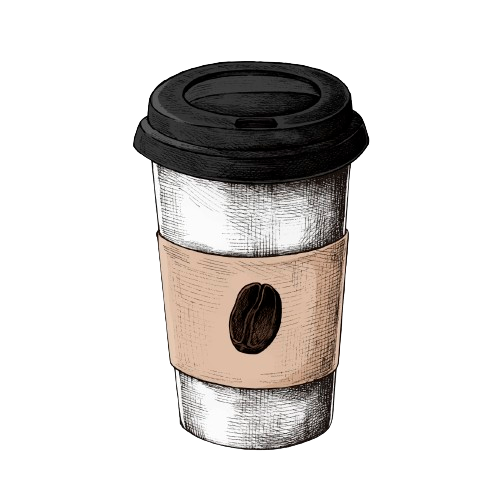
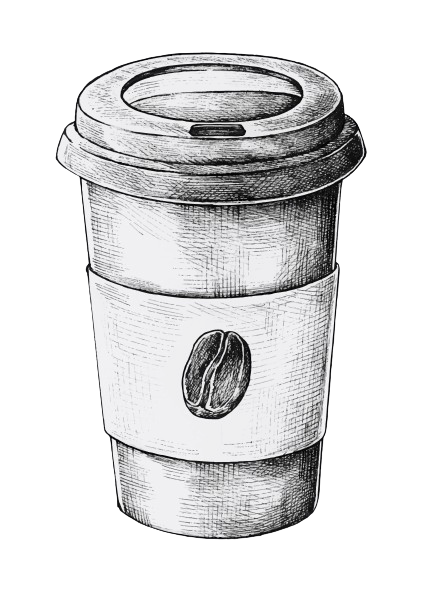
home redesign

diff --git a/src/parts/Hero.jsx b/src/parts/Hero.jsx
@@ -2,42 +2,51 @@ import { Outlet, Link } from "react-router-dom";
 import "../assets/style/style.css";
 
 export const Hero = () => {
-  const hero_img = require("../assets/images/on-pages/cappuccino.jpg");
+  const hero_img = require("../assets/images/on-pages/coffee-sketch.png");
+  const b = require("../assets/images/on-pages/2.png");
+  const c = require("../assets/images/on-pages/3.png");
+  const a = require("../assets/images/on-pages/1.png");
 
   return (
-    <section
-      className="flex items-center bg-[#F3f3f3] text-[#36322D]"
-      id="home"
-    >
+    <section className="flex items-center bg-[#F3f3f3]" id="home">
       <div className="container">
-        <div className="flex items-center justify-center gap-16 lg:flex-col lg:gap-8">
+        <div className="flex items-center justify-center lg:flex-col lg:gap-8 sm:gap-0">
           <div className="max-ch">
             <header>
               <h1 className="mb-4 text-4xl font-bold">ENJOY THE MOMENT</h1>
-              <a href="##" className="text-3xl font-semibold">
+              <a href="##" className="text-3xl font-semibold text-orange-400">
                 @thecoffeehouse
               </a>
             </header>
-            <p className="text-2xl">
+            <p className="mt-2 text-2xl">
               The best coffee bean for every cup of your coffee.
             </p>
+            <br />
             <Link
               to="/menu"
-              className="text-2xl font-semibold underline decoration-wavy hover:opacity-70"
+              className="rounded-md border border-black bg-white px-4 py-2 text-xl font-semibold text-black transition-all hover:bg-[#F3f3f3]"
             >
               MENU
             </Link>
             <br />
           </div>
 
-          <div className="flex lg:max-w-96 lg:justify-center">
+          <div className="flex lg:max-w-72 lg:justify-center">
             <img
               src={hero_img}
               alt="coffee"
-              className="w-96 md:w-9/12 xs:hidden"
+              className="w-96 md:w-9/12 sm:w-2/3 xs:hidden"
             />
           </div>
+          <div className="flex w-48 flex-col lg:hidden">
+            <img src={a} alt="coffee" className="w-48" />
+            <img src={b} alt="coffee" className="ml-12 w-48" />
+            <img src={c} alt="coffee" className="w-48" />
+          </div>
         </div>
+        <br className="sm:hidden" />
+        <br className="sm:hidden" />
+        <hr className="border-t border-slate-500 sm:hidden" />
       </div>
       <Outlet />
     </section>

diff --git a/src/parts/CoffeeTypes.jsx b/src/parts/CoffeeTypes.jsx
@@ -8,7 +8,7 @@ export const CoffeeTypes = () => {
 
   return (
     <section
-      className="bg-coffee flex items-center bg-[#F3f3f3] text-[#36322D]"
+      className="bg-coffee flex items-center bg-[#F3f3f3]"
       id="coffee-types"
     >
       <div className="container">
@@ -42,7 +42,7 @@ export const CoffeeTypes = () => {
             </h3>
             <Link
               to="/menu"
-              className="text-2xl font-semibold underline decoration-wavy hover:opacity-70"
+              className="rounded-md border border-black bg-white px-4 py-2 text-xl font-semibold text-black transition-all hover:bg-[#F3f3f3]"
             >
               MENU
             </Link>

diff --git a/src/parts/Info.jsx b/src/parts/Info.jsx
@@ -4,7 +4,7 @@ export const Info = () => {
   const barista = require("../assets/images/on-pages/barista-collage.png");
 
   return (
-    <section className="flex items-center text-[#36322D]" id="info">
+    <section className="flex items-center" id="info">
       <div className="container flex justify-center">
         <div className="flex items-center justify-center gap-16 lg:max-w-96 lg:flex-col md:gap-8">
           <div className="flex lg:justify-center">

diff --git a/tailwind.config.js b/tailwind.config.js
@@ -16,11 +16,11 @@ module.exports = {
       md: { max: "767px" },
       // => @media (max-width: 767px) { ... }
 
-      sm: { max: "400px" },
-      // => @media (max-width: 400px) { ... }
-
       sx: { max: "450px" },
       // => @media (max-width: 450px) { ... }
+
+      sm: { max: "400px" },
+      // => @media (max-width: 400px) { ... }
 
       xs: { max: "300px" },
       // => @media (max-width: 300px) { ... }

diff --git a/src/parts/CoffeeMenu.jsx b/src/parts/CoffeeMenu.jsx
@@ -34,7 +34,7 @@ export const CoffeeMenu = ({
           toggleCart={toggleCart}
         />
       </div>
-      <div className="mt-16 flex bg-[#F3f3f3] text-[#36322D]" id="coffee-types">
+      <div className="mt-16 flex bg-[#F3f3f3]" id="coffee-types">
         <div className="container">
           <div className="mb-16 flex flex-col gap-12">
             <div className="mt-12 flex flex-col items-center gap-8">

diff --git a/src/parts/PageNotFound.jsx b/src/parts/PageNotFound.jsx
@@ -11,6 +11,7 @@ export const PageNotFound = () => {
           <Link to="/">Let's go back.</Link>
         </div>
       </div>
+      <Outlet />
     </section>
   );
 };
